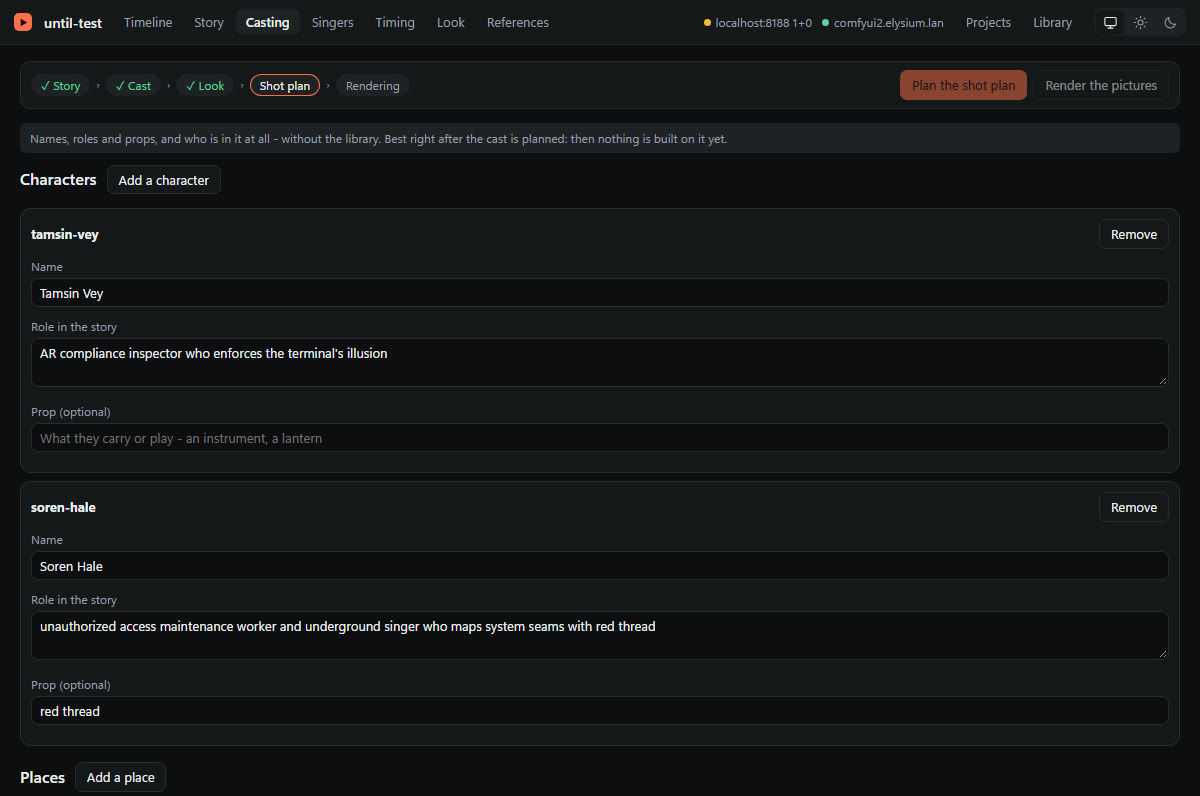
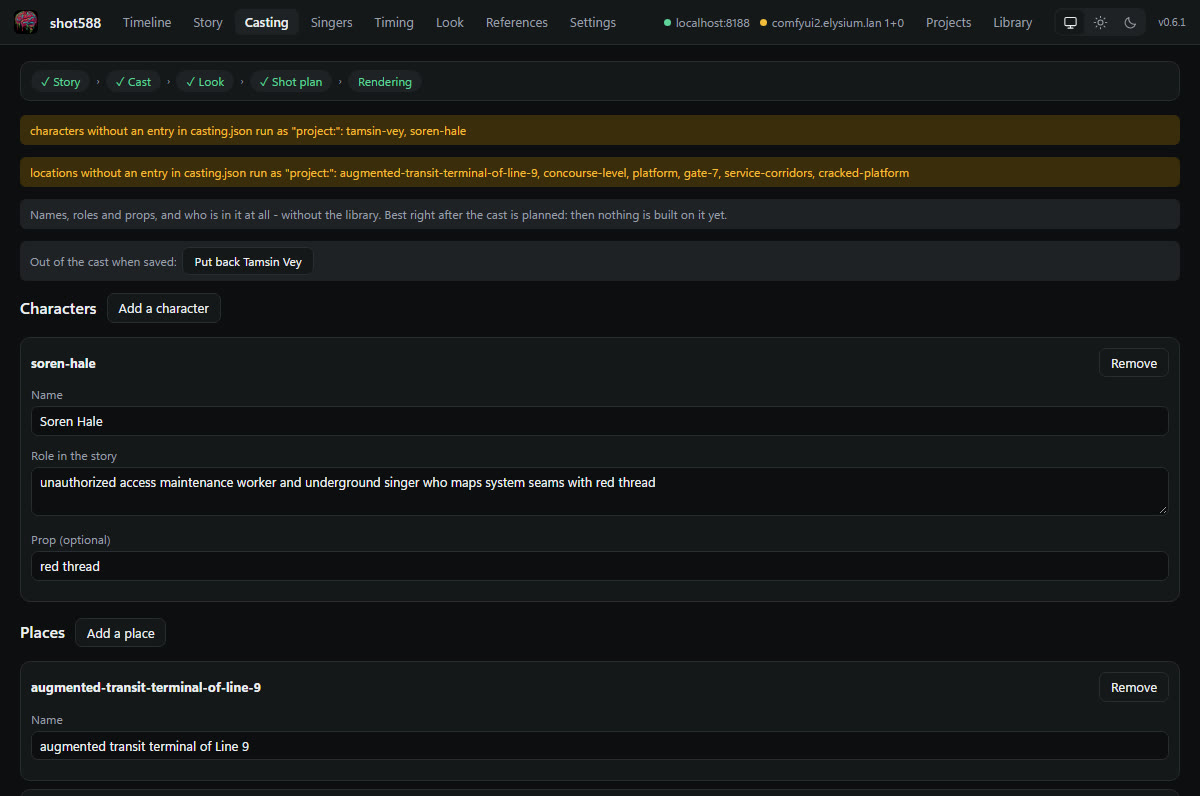
Casting: add and remove cast members from the list of roles (#588)
Add a character / Add a place sit over the lists and Remove next to each
role; each opens the cast by hand with that change made, saved as any other.
Who is out of the cast when saved is said above the forms, with Put back.
"Edit the cast" is "Change the cast" for a music video. UI only: writeCast
already takes added and removed members.

diff --git a/client/src/features/casting/CastingPage.vue b/client/src/features/casting/CastingPage.vue
@@ -1,5 +1,5 @@
 <script setup lang="ts">
-import {computed, reactive, ref} from 'vue'
+import {computed, nextTick, reactive, ref} from 'vue'
 import {useRouter} from 'vue-router'
 import type {CastingRole, CastView} from '../../../../shared/workspace'
 import NoticeList from '../../components/NoticeList.vue'
@@ -16,7 +16,7 @@ import {useProject} from '../project/session'
 import {usePageData} from '../project/usePageData'
 import CastEditor from './CastEditor.vue'
 import CastingRoleRow from './CastingRoleRow.vue'
-import {castDraft, type CastDraft} from './forms'
+import {castDraft, newMember, type CastDraft} from './forms'
 
 /** Who plays whom: a role given a library asset, or the cast changed by hand - two ways, never at once. */
 const {project, api, start, busy, root} = useProject()
@@ -78,6 +78,30 @@ const draft = ref<CastDraft>()
 const editing = computed(() => !!draft.value)
 const edit = (cast: CastView) => { draft.value = reactive(castDraft(cast)) }
 const cancel = () => { draft.value = undefined }
+const listOf = (kind: CastingRole['kind']) => kind === 'character' ? 'characters' : 'locations'
+// adding and removing start from the list of roles too (#588): the cast by hand opens with that change made, and is saved as any other
+const add = async (cast: CastView, kind: CastingRole['kind']) => {
+  edit(cast)
+  draft.value![listOf(kind)].push(newMember(kind))
+  await nextTick()
+  const names = document.querySelectorAll<HTMLInputElement>(`[data-cast="${kind}"] input[aria-label="Name"]`)
+  names[names.length - 1]?.focus()
+}
+const remove = (cast: CastView, role: CastingRole) => {
+  edit(cast)
+  const list = draft.value![listOf(role.kind)]
+  list.splice(list.findIndex(m => m.id === role.id), 1)
+}
+const inCast = (cast: CastView, role: CastingRole) => cast[listOf(role.kind)].some(m => m.id === role.id && !m.group)
+// who is in the cast and not in the draft: taken out on save - said, and put back with one click
+const gone = computed(() => {
+  const cast = data.value?.cast
+  if (!cast || !draft.value) return []
+  return (['character', 'location'] as const).flatMap(kind => cast[listOf(kind)]
+    .filter(m => !draft.value![listOf(kind)].some(d => d.id === m.id))
+    .map(member => ({kind, member})))
+})
+const putBack = (kind: CastingRole['kind'], member: CastView['characters'][number]) => { draft.value![listOf(kind)].push({...member}) }
 useUnsavedChanges(() => editing.value, 'changes to the cast')
 const saving = usePending()
 
@@ -136,8 +160,12 @@ const saveCast = toasts.guard(async () => {
       <div v-if="!data.cast" class="empty">No cast yet - plan it with the button above.</div>
       <template v-else-if="draft">
         <div class="note">{{ film ? 'The names and texts of the screenplay\'s roles and places. Who is in it is the script\'s: that is changed there.' : 'Names, roles and props, and who is in it at all - without the library. Best right after the cast is planned: then nothing is built on it yet.' }}</div>
-        <CastEditor :members="draft.characters" title="Characters" kind="character" :film="film" :can-add="data.cast.canAdd" />
-        <CastEditor :members="draft.locations" title="Places" kind="location" :film="film" :can-add="data.cast.canAdd" />
+        <div v-if="gone.length" class="note btn-row">
+          <span>Out of the cast when saved:</span>
+          <button v-for="{kind, member} in gone" :key="member.id" class="btn" :title="`Keep ${member.name} in the cast`" @click="putBack(kind, member)">Put back {{ member.name }}</button>
+        </div>
+        <CastEditor :members="draft.characters" title="Characters" kind="character" :film="film" :can-add="data.cast.canAdd" data-cast="character" />
+        <CastEditor :members="draft.locations" title="Places" kind="location" :film="film" :can-add="data.cast.canAdd" data-cast="location" />
         <div class="section btn-row">
           <button class="btn primary" :disabled="busy" @click="saveCast">Save the cast</button>
           <button class="btn" @click="cancel">Cancel</button>
@@ -146,12 +174,15 @@ const saveCast = toasts.guard(async () => {
       </template>
       <template v-else>
         <div class="section btn-row">
-          <button class="btn" :disabled="busy" title="Change names, roles and what they are by hand - no library needed" @click="edit(data.cast)">{{ film ? 'Edit the roles and places' : 'Edit the cast' }}</button>
+          <button class="btn" :disabled="busy" :title="film ? 'Change names and what they are by hand' : 'Change names, roles and what they are by hand, add or remove someone - no library needed'" @click="edit(data.cast)">{{ film ? 'Edit the roles and places' : 'Change the cast' }}</button>
           <span class="muted">Or give a role a library asset with the choice next to it.</span>
         </div>
-        <div v-for="[kind, title] in ([['character', 'Characters'], ['location', 'Places']] as const)" v-show="rolesOf(kind).length" :key="kind" class="section">
-          <PageBar :title="title" />
-          <CastingRoleRow v-for="role in rolesOf(kind)" :key="role.id" :role="role" :options="data.casting.options[kind]" @choose="(value, select) => chooseGuarded(role, value, select)" />
+        <div v-for="[kind, title] in ([['character', 'Characters'], ['location', 'Places']] as const)" v-show="rolesOf(kind).length || data.cast.canAdd" :key="kind" class="section">
+          <PageBar :title="title">
+            <button v-if="data.cast.canAdd" class="btn" :disabled="busy" @click="add(data.cast, kind)">{{ kind === 'character' ? 'Add a character' : 'Add a place' }}</button>
+          </PageBar>
+          <CastingRoleRow v-for="role in rolesOf(kind)" :key="role.id" :role="role" :options="data.casting.options[kind]" :removable="data.cast.canAdd && !busy && inCast(data.cast, role)"
+            @choose="(value, select) => chooseGuarded(role, value, select)" @remove="remove(data.cast, role)" />
         </div>
       </template>
       <p class="muted">For a finished project, replacing a character in what is planned is the other way: bun run {{ film ? 'film:replace-character' : 'replace-character' }} {{ project.id }}</p>

diff --git a/client/src/features/casting/CastingRoleRow.vue b/client/src/features/casting/CastingRoleRow.vue
@@ -7,9 +7,12 @@ import {plural} from '../../lib/format'
 import {useViewer} from '../../services/viewer'
 import {useProject} from '../project/session'
 
-/** A role and who plays it: rendered in this project, or an asset of the library. A choice is asked for by the page. */
-const props = defineProps<{role: CastingRole, options: string[]}>()
-const emit = defineEmits<{choose: [value: string, select: HTMLSelectElement]}>()
+/**
+ * A role and who plays it: rendered in this project, or an asset of the library. A choice is asked for by the page - and where the
+ * cast can shrink, taking the role out of it, which the page opens in the cast by hand.
+ */
+const props = defineProps<{role: CastingRole, options: string[], removable: boolean}>()
+const emit = defineEmits<{choose: [value: string, select: HTMLSelectElement], remove: []}>()
 const {roots} = useProject()
 const viewer = useViewer()
 const own = computed(() => `project:${props.role.id}`)
@@ -27,10 +30,13 @@ const unknown = computed(() => props.role.entry && props.role.entry !== own.valu
       <div v-if="role.libraryId && !role.copied" class="warn">Not copied yet: the next run takes it from the library.</div>
       <NoticeList :errors="role.errors" :warnings="role.warnings" />
     </div>
-    <select :aria-label="`Who plays ${role.name}`" :value="value" @change="emit('choose', ($event.target as HTMLSelectElement).value, $event.target as HTMLSelectElement)">
-      <option :value="own">Rendered in this project</option>
-      <option v-for="id in options" :key="id" :value="`library:${id}`">library: {{ id }}</option>
-      <option v-if="unknown" :value="role.entry">{{ role.entry }}</option>
-    </select>
+    <div class="choice">
+      <select :aria-label="`Who plays ${role.name}`" :value="value" @change="emit('choose', ($event.target as HTMLSelectElement).value, $event.target as HTMLSelectElement)">
+        <option :value="own">Rendered in this project</option>
+        <option v-for="id in options" :key="id" :value="`library:${id}`">library: {{ id }}</option>
+        <option v-if="unknown" :value="role.entry">{{ role.entry }}</option>
+      </select>
+      <button v-if="removable" class="btn" :aria-label="`Remove ${role.name}`" :title="role.kind === 'character' ? 'Out of the cast: the beats and shots are planned without them' : 'Out of the cast: the beats are planned without it'" @click="emit('remove')">Remove</button>
+    </div>
   </article>
 </template>

diff --git a/client/tests/e2e/project.spec.ts b/client/tests/e2e/project.spec.ts
@@ -72,12 +72,25 @@ test('casting: a library asset for a role, asked with what goes stale', async ({
   await expect(dialog(page)).toContainText('1 clip go stale: clip-1')
   await dialog(page).getByRole('button', {name: 'Change it'}).click()
   await expect.poll(() => posted.find(p => p.path === 'casting')?.body).toEqual({kind: 'character', id: 'ann', value: 'library:kael'})
-  await page.getByRole('button', {name: 'Edit the cast'}).click()
+  // adding starts from the list of roles: the cast by hand opens with the new place, its name to type
   await page.getByRole('button', {name: 'Add a place'}).click()
-  await page.getByRole('textbox', {name: 'Name'}).last().fill('Roof')
+  await expect(page.getByRole('textbox', {name: 'Name'}).last()).toBeFocused()
+  await page.keyboard.type('Roof')
   await page.getByRole('button', {name: 'Save the cast'}).click()
   await dialog(page).getByRole('button', {name: 'Save it'}).click()
   await expect.poll(() => posted.find(p => p.path === 'cast')?.body).toEqual({characters: [{id: 'ann', name: 'Ann', role: 'singer'}], locations: [{id: 'bar', name: 'Bar'}, {name: 'Roof'}]})
+})
+
+test('casting: a role removed from the list of roles, and put back before saving', async ({page}) => {
+  await page.goto(`${base}/p/music/demo/casting`)
+  await page.getByRole('button', {name: 'Remove Ann'}).click()
+  await expect(page.getByText('Out of the cast when saved:')).toBeVisible()
+  await page.getByRole('button', {name: 'Put back Ann'}).click()
+  await expect(page.getByText('Out of the cast when saved:')).toBeHidden()
+  await page.getByRole('button', {name: 'Remove'}).last().click()
+  await page.getByRole('button', {name: 'Save the cast'}).click()
+  await dialog(page).getByRole('button', {name: 'Save it'}).click()
+  await expect.poll(() => posted.find(p => p.path === 'cast')?.body).toEqual({characters: [{id: 'ann', name: 'Ann', role: 'singer'}], locations: []})
 })
 
 test('look: one text changed and one written anew, saved together', async ({page}) => {

diff --git a/client/src/styles/workspace.css b/client/src/styles/workspace.css
@@ -266,9 +266,11 @@ fieldset.plain { border: 0; padding: 0; margin: 0; min-width: 0; }
 .detail h2 { font-size: 15px; font-weight: 600; margin-bottom: 2px; }
 .strip { display: grid; grid-template-columns: repeat(auto-fill, minmax(80px, 1fr)); gap: 6px; }
 .strip img { width: 100%; aspect-ratio: 16/10; object-fit: cover; border-radius: 4px; background: #000; cursor: zoom-in; display: block; }
-.role { display: grid; grid-template-columns: 96px minmax(0, 1fr) 260px; gap: 12px; padding: 10px; background: var(--surface); border: 1px solid var(--line); border-radius: 10px; margin-bottom: 8px; align-items: center; }
+.role { display: grid; grid-template-columns: 96px minmax(0, 1fr) 340px; gap: 12px; padding: 10px; background: var(--surface); border: 1px solid var(--line); border-radius: 10px; margin-bottom: 8px; align-items: center; }
 .role img, .role .noimg { width: 96px; aspect-ratio: 4/3; object-fit: cover; border-radius: 6px; background: var(--hatch); display: block; }
 .role .warn { margin: 4px 0 0; }
+.role .choice { display: flex; gap: 8px; align-items: center; }
+.role .choice select { flex: 1; min-width: 0; }
 /* the preproduction: the stages of the plan, each planned and looked at before the next (issue #526) */
 .stages { display: flex; align-items: center; gap: 6px; flex-wrap: wrap; padding: 8px 10px; background: var(--surface); border: 1px solid var(--line); border-radius: 10px; margin-bottom: 14px; }
 .stages .stage { padding: 2px 10px; border-radius: 99px; background: var(--raised); color: var(--muted); font-size: 12px; white-space: nowrap; text-decoration: none; }

diff --git a/docs/workspace-guide.md b/docs/workspace-guide.md
@@ -74,7 +74,7 @@ Alles aus diesem Abschnitt geht auch ohne Workspace. Die Seiten rufen dieselben 
 | **Story** lesen, ändern | `bun run story <id> --out=story.txt`, ändern, dann `bun run story <id> --set=story.txt` |
 | **Tell it anew for the cast**, **Take the new story**, **Drop it** | `bun run story <id> --adapt`, dann `--take` oder `--drop` |
 | neue Namen in die Story | `bun run story <id> --rename="Soren Hale=Soren Vale"` |
-| **Edit the cast** | `bun run cast <id> --json > cast.json`, ändern, dann `bun run cast <id> --set=cast.json`. Eine neue Figur steht ohne `id` drin, eine entfernte fehlt einfach. |
+| **Change the cast**, **Add a character**, **Add a place**, **Remove** | `bun run cast <id> --json > cast.json`, ändern, dann `bun run cast <id> --set=cast.json`. Eine neue Figur steht ohne `id` drin, eine entfernte fehlt einfach. |
 | Rolle aus der Bibliothek, **Plan now** | `bun run casting <id> --set=character:mara=library:mara-v2`, der Befehl nennt das passende `--redo` |
 | **Look** lesen, ändern | `bun run look <id>`; `--json > look.json`, ändern, `--set=look.json` |
 | **Write anew** | `bun run look <id> --again=leo,location:hall` |
@@ -181,11 +181,11 @@ Bei einem gepinnten Bild sind die Render-Knöpfe gesperrt. Clips, die das Bild b
 
 **Casting** zeigt jede Rolle und jeden Ort mit einer Auswahl: **Rendered in this project** oder ein Asset aus der Bibliothek. Eine Änderung schreibt nur einen Eintrag in `casting.json`. Wirksam wird sie mit dem nächsten Planlauf (**Plan now**). Der Dialog davor nennt, welche Schritte aus den alten Texten der Rolle geplant waren und jetzt neu geplant werden. Die betroffenen Clips werden dann stale, gerendert wird nichts von selbst.
 
-**Edit the cast** ändert den Cast selbst, ganz ohne Bibliothek: Name, Rolle in der Story und Requisite jeder Figur, die Namen der Orte. Beim Musikvideo kannst du Figuren und Orte auch hinzufügen (**Add a character**, **Add a place**) und entfernen (**Remove**). Beim Film legt das Drehbuch fest, wer vorkommt: Dort änderst du Name, Rolle, Aussehen und Stimme. Die Ids bleiben, eine umbenannte Figur behält also ihre Bilder und ihren Eintrag in `casting.json`.
+**Change the cast** ändert den Cast selbst, ganz ohne Bibliothek: Name, Rolle in der Story und Requisite jeder Figur, die Namen der Orte. Beim Musikvideo kannst du Figuren und Orte auch hinzufügen und entfernen: **Add a character** und **Add a place** stehen über den Listen, **Remove** neben jeder Rolle. Beides öffnet den Cast zum Bearbeiten, mit der Änderung schon drin, und gespeichert wird wie bei jeder anderen Änderung. Wer beim Speichern wegfällt, steht über dem Knopf, und **Put back** holt ihn zurück. Beim Film legt das Drehbuch fest, wer vorkommt (#589): Dort änderst du mit **Edit the roles and places** Name, Rolle, Aussehen und Stimme. Die Ids bleiben, eine umbenannte Figur behält also ihre Bilder und ihren Eintrag in `casting.json`.
 
 **Save the cast** nennt vorher, was aus dem alten Cast geplant war und wegfällt: die Looks, beim Musikvideo auch die Sängerwahl, später die Beats und Einstellungen. Der nächste Planlauf macht es neu, nur mit dem Sprachmodell. Beim Musikvideo werden dabei nur die Looks der neuen oder geänderten Figuren und Orte neu geschrieben, alle anderen behalten ihre. Nach dem Speichern fragt die Seite nach: Bei einer umbenannten Figur setzt **Put them in** den neuen Namen in die Story (als ganzes Wort, auch Vor- oder Nachname allein). Kam jemand dazu oder fiel weg, bietet sie an, die Story für die neue Besetzung erzählen zu lassen (siehe oben).
 
-![Edit the cast: je Figur Name, Rolle und Requisite](images/workspace/cast-edit.jpg)
+![Change the cast: je Figur Name, Rolle und Requisite, darüber wer beim Speichern wegfällt](images/workspace/cast-edit.jpg)
 
 **Library** (oben rechts) zeigt alle Assets und wo sie benutzt werden. **New asset from a picture** legt eines aus einem Bild an. Aus einem Projekt heraus geht es unter **References** mit **Put into the library**. Ein vorhandenes Asset wird dabei nie überschrieben.
 

diff --git a/README.md b/README.md
@@ -916,7 +916,7 @@ A film takes the same commands with `--film` (and `bun film.ts`); its screenplay
 - **A clip**: render it again with the estimate before the click, render one shot or part of it, compare and pick versions, make a preview. After a render the old and the new one open side by side.
 - **Several clips**: Ctrl or Shift click marks clips on the timeline, to render them together. During a run every block says waiting, rendering or done. *Review* goes through the marked clips, else the flagged ones, one by one with keys. `?` shows all keys and what the words mean.
 - **References**: every picture with its prompt, sheet, older versions and the clips that use it: a new sheet from the same anchor, a new anchor, an edited prompt (the picture then stays pinned), or into the library.
-- **Casting**: `casting.json` as a page. A choice changes that one entry; *Plan now* takes the asset over and plans again what was planned from the role's old texts (the `--redo` the run would only name), after saying which steps that is. *Edit the cast* changes the cast itself, without the library: names, roles and props, and for a music video who is in it at all (a film's script says that, its roles and places keep their ids and change their texts). Saving drops what was planned from the old cast - for a music video the looks only of whoever is new or changed, everyone else keeps theirs; best right after `--until=cast`, when nothing is built on it yet. Afterwards the page offers the new names in the story (as whole words), or the story told anew for whoever came or went.
+- **Casting**: `casting.json` as a page. A choice changes that one entry; *Plan now* takes the asset over and plans again what was planned from the role's old texts (the `--redo` the run would only name), after saying which steps that is. *Change the cast* changes the cast itself, without the library: names, roles and props, and for a music video who is in it at all - *Add a character*, *Add a place* and *Remove* sit on the list of roles too, and open the cast by hand with that change made (a film's script says that, its roles and places keep their ids and change their texts). Saving drops what was planned from the old cast - for a music video the looks only of whoever is new or changed, everyone else keeps theirs; best right after `--until=cast`, when nothing is built on it yet. Afterwards the page offers the new names in the story (as whole words), or the story told anew for whoever came or went.
 - **Settings**: the render settings of the project - workflows (the video workflow from `comfy/workflows/`, the image and sheet workflows), video and picture size, aspect ratio, context frames, seed, the retries, the final frame rate and the finish. A change is checked as the loader checks it and the question before it says which rendered clips and pictures it makes stale (the workflow, the size and the aspect are part of what a clip is made from); nothing is rendered or planned by it. It is `bun run config <id>` in the terminal; other keys of `config.json` (singers, languages) are changed where they belong, or by hand. Not changed while a run is going on.
 - **Library**: the asset library, who uses what, a new asset from a picture.
 - **Refinish**: an older project larger, at 48 fps and finished, from the clips it has: see [Making an older project over](#making-an-older-project-over).
